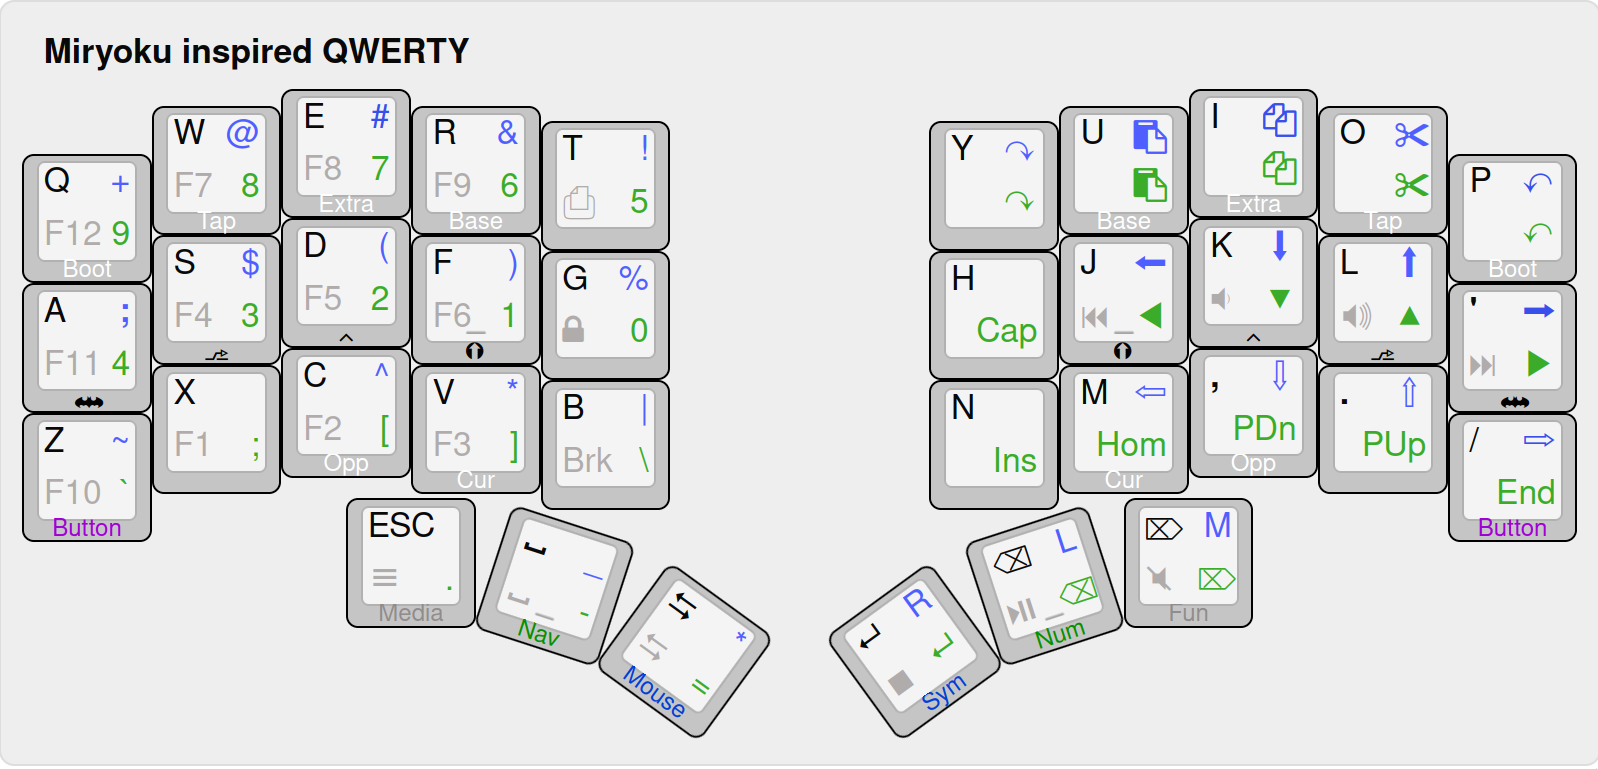
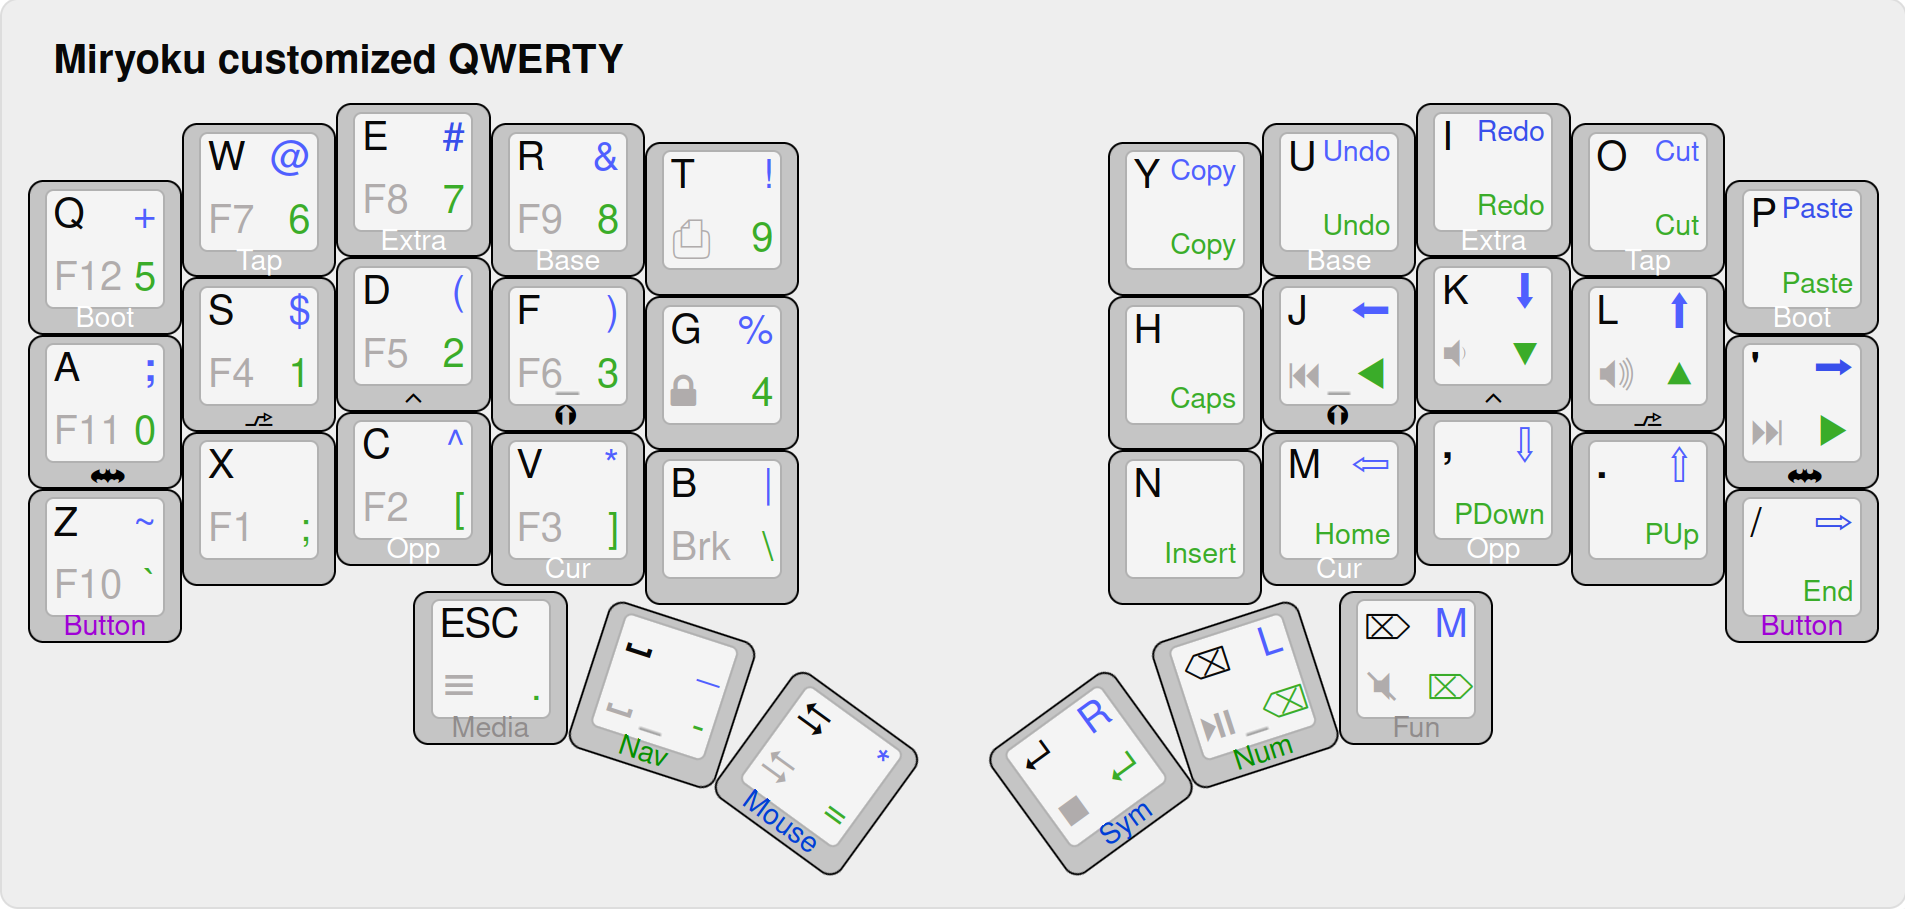
change num layout + copy/paste/cut/ins

diff --git a/users/manna-harbour_miryoku/miryoku_babel/miryoku_layer_alternatives.h b/users/manna-harbour_miryoku/miryoku_babel/miryoku_layer_alternatives.h
@@ -23,14 +23,14 @@ U_NP,              U_NP,              KC_ESC,            KC_SPC,            KC_T
 
 // =======   NAVIGATION   =========
 #define MIRYOKU_ALTERNATIVES_NAV \
-TD(U_TD_BOOT),     TD(U_TD_U_TAP),    TD(U_TD_U_EXTRA),  TD(U_TD_U_BASE),   U_NA,              U_RDO,             U_PST,             U_CPY,             U_CUT,             U_UND,             \
+TD(U_TD_BOOT),     TD(U_TD_U_TAP),    TD(U_TD_U_EXTRA),  TD(U_TD_U_BASE),   U_NA,              U_CPY,             U_UND,             U_RDO,             U_CUT,             U_PST,             \
 KC_LGUI,           KC_LALT,           KC_LCTL,           KC_LSFT,           U_NA,              CW_TOGG,           KC_LEFT,           KC_DOWN,           KC_UP,             KC_RGHT,           \
 U_NA,              KC_ALGR,           TD(U_TD_U_NUM),    TD(U_TD_U_NAV),    U_NA,              KC_INS,            KC_HOME,           KC_PGDN,           KC_PGUP,           KC_END,            \
 U_NP,              U_NP,              U_NA,              U_NA,              U_NA,              KC_ENT,            KC_BSPC,           KC_DEL,            U_NP,              U_NP
 
 // =======   MOUSE   =========
 #define MIRYOKU_ALTERNATIVES_MOUSE \
-TD(U_TD_BOOT),     TD(U_TD_U_TAP),    TD(U_TD_U_EXTRA),  TD(U_TD_U_BASE),   U_NA,              U_RDO,             U_PST,             U_CPY,             U_CUT,             U_UND,             \
+TD(U_TD_BOOT),     TD(U_TD_U_TAP),    TD(U_TD_U_EXTRA),  TD(U_TD_U_BASE),   U_NA,              U_CPY,             U_UND,             U_RDO,             U_CUT,             U_PST,             \
 KC_LGUI,           KC_LALT,           KC_LCTL,           KC_LSFT,           U_NA,              U_NU,              KC_MS_L,           KC_MS_D,           KC_MS_U,           KC_MS_R,           \
 U_NA,              KC_ALGR,           TD(U_TD_U_SYM),    TD(U_TD_U_MOUSE),  U_NA,              U_NU,              KC_WH_L,           KC_WH_D,           KC_WH_U,           KC_WH_R,           \
 U_NP,              U_NP,              U_NA,              U_NA,              U_NA,              KC_BTN2,           KC_BTN1,           KC_BTN3,           U_NP,              U_NP
@@ -44,8 +44,8 @@ U_NP,              U_NP,              U_NA,              U_NA,              U_NA
 
 // =======   NUMBERS   =========
 #define MIRYOKU_ALTERNATIVES_NUM \
-KC_9,              KC_8,              KC_7,              KC_6,              KC_5,              U_NA,              TD(U_TD_U_BASE),   TD(U_TD_U_EXTRA),  TD(U_TD_U_TAP),    TD(U_TD_BOOT),     \
-KC_4,              KC_3,              KC_2,              KC_1,              KC_0,              U_NA,              KC_LSFT,           KC_LCTL,           KC_LALT,           KC_LGUI,           \
+KC_5,              KC_6,              KC_7,              KC_8,              KC_9,              U_NA,              TD(U_TD_U_BASE),   TD(U_TD_U_EXTRA),  TD(U_TD_U_TAP),    TD(U_TD_BOOT),     \
+KC_0,              KC_1,              KC_2,              KC_3,              KC_4,              U_NA,              KC_LSFT,           KC_LCTL,           KC_LALT,           KC_LGUI,           \
 KC_GRV,            KC_SCLN,           KC_LBRC,           KC_RBRC,           KC_BSLS,           U_NA,              TD(U_TD_U_NUM),    TD(U_TD_U_NAV),    KC_ALGR,           U_NA,              \
 U_NP,              U_NP,              KC_DOT,            KC_MINS,           KC_EQL,            U_NA,              U_NA,              U_NA,              U_NP,              U_NP
 
